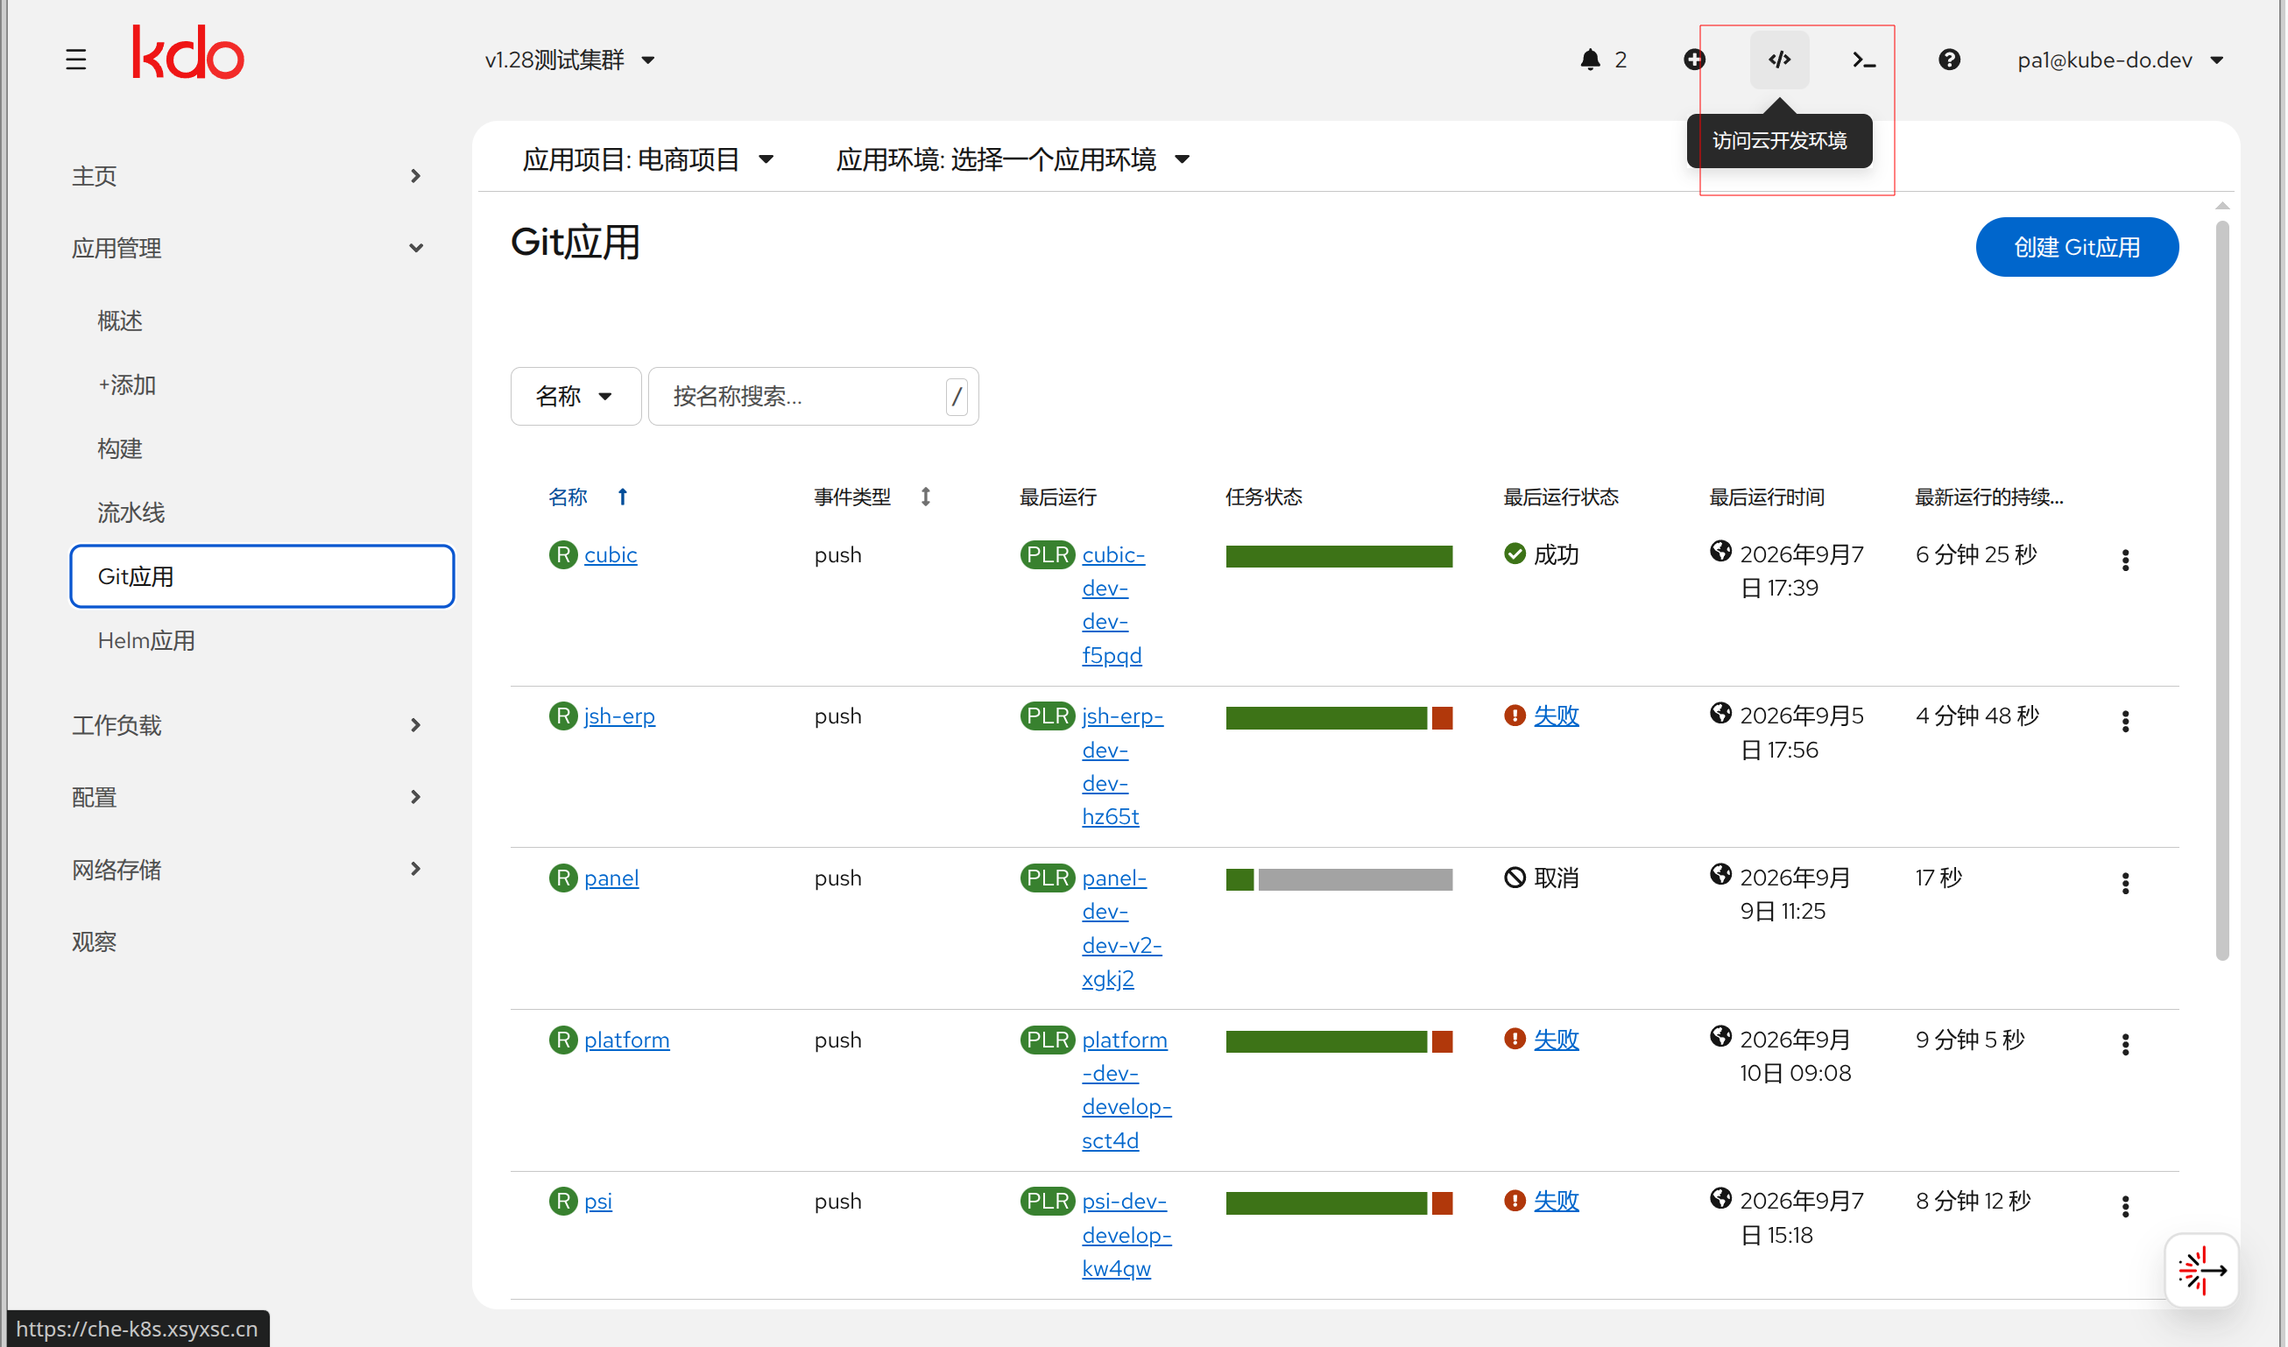
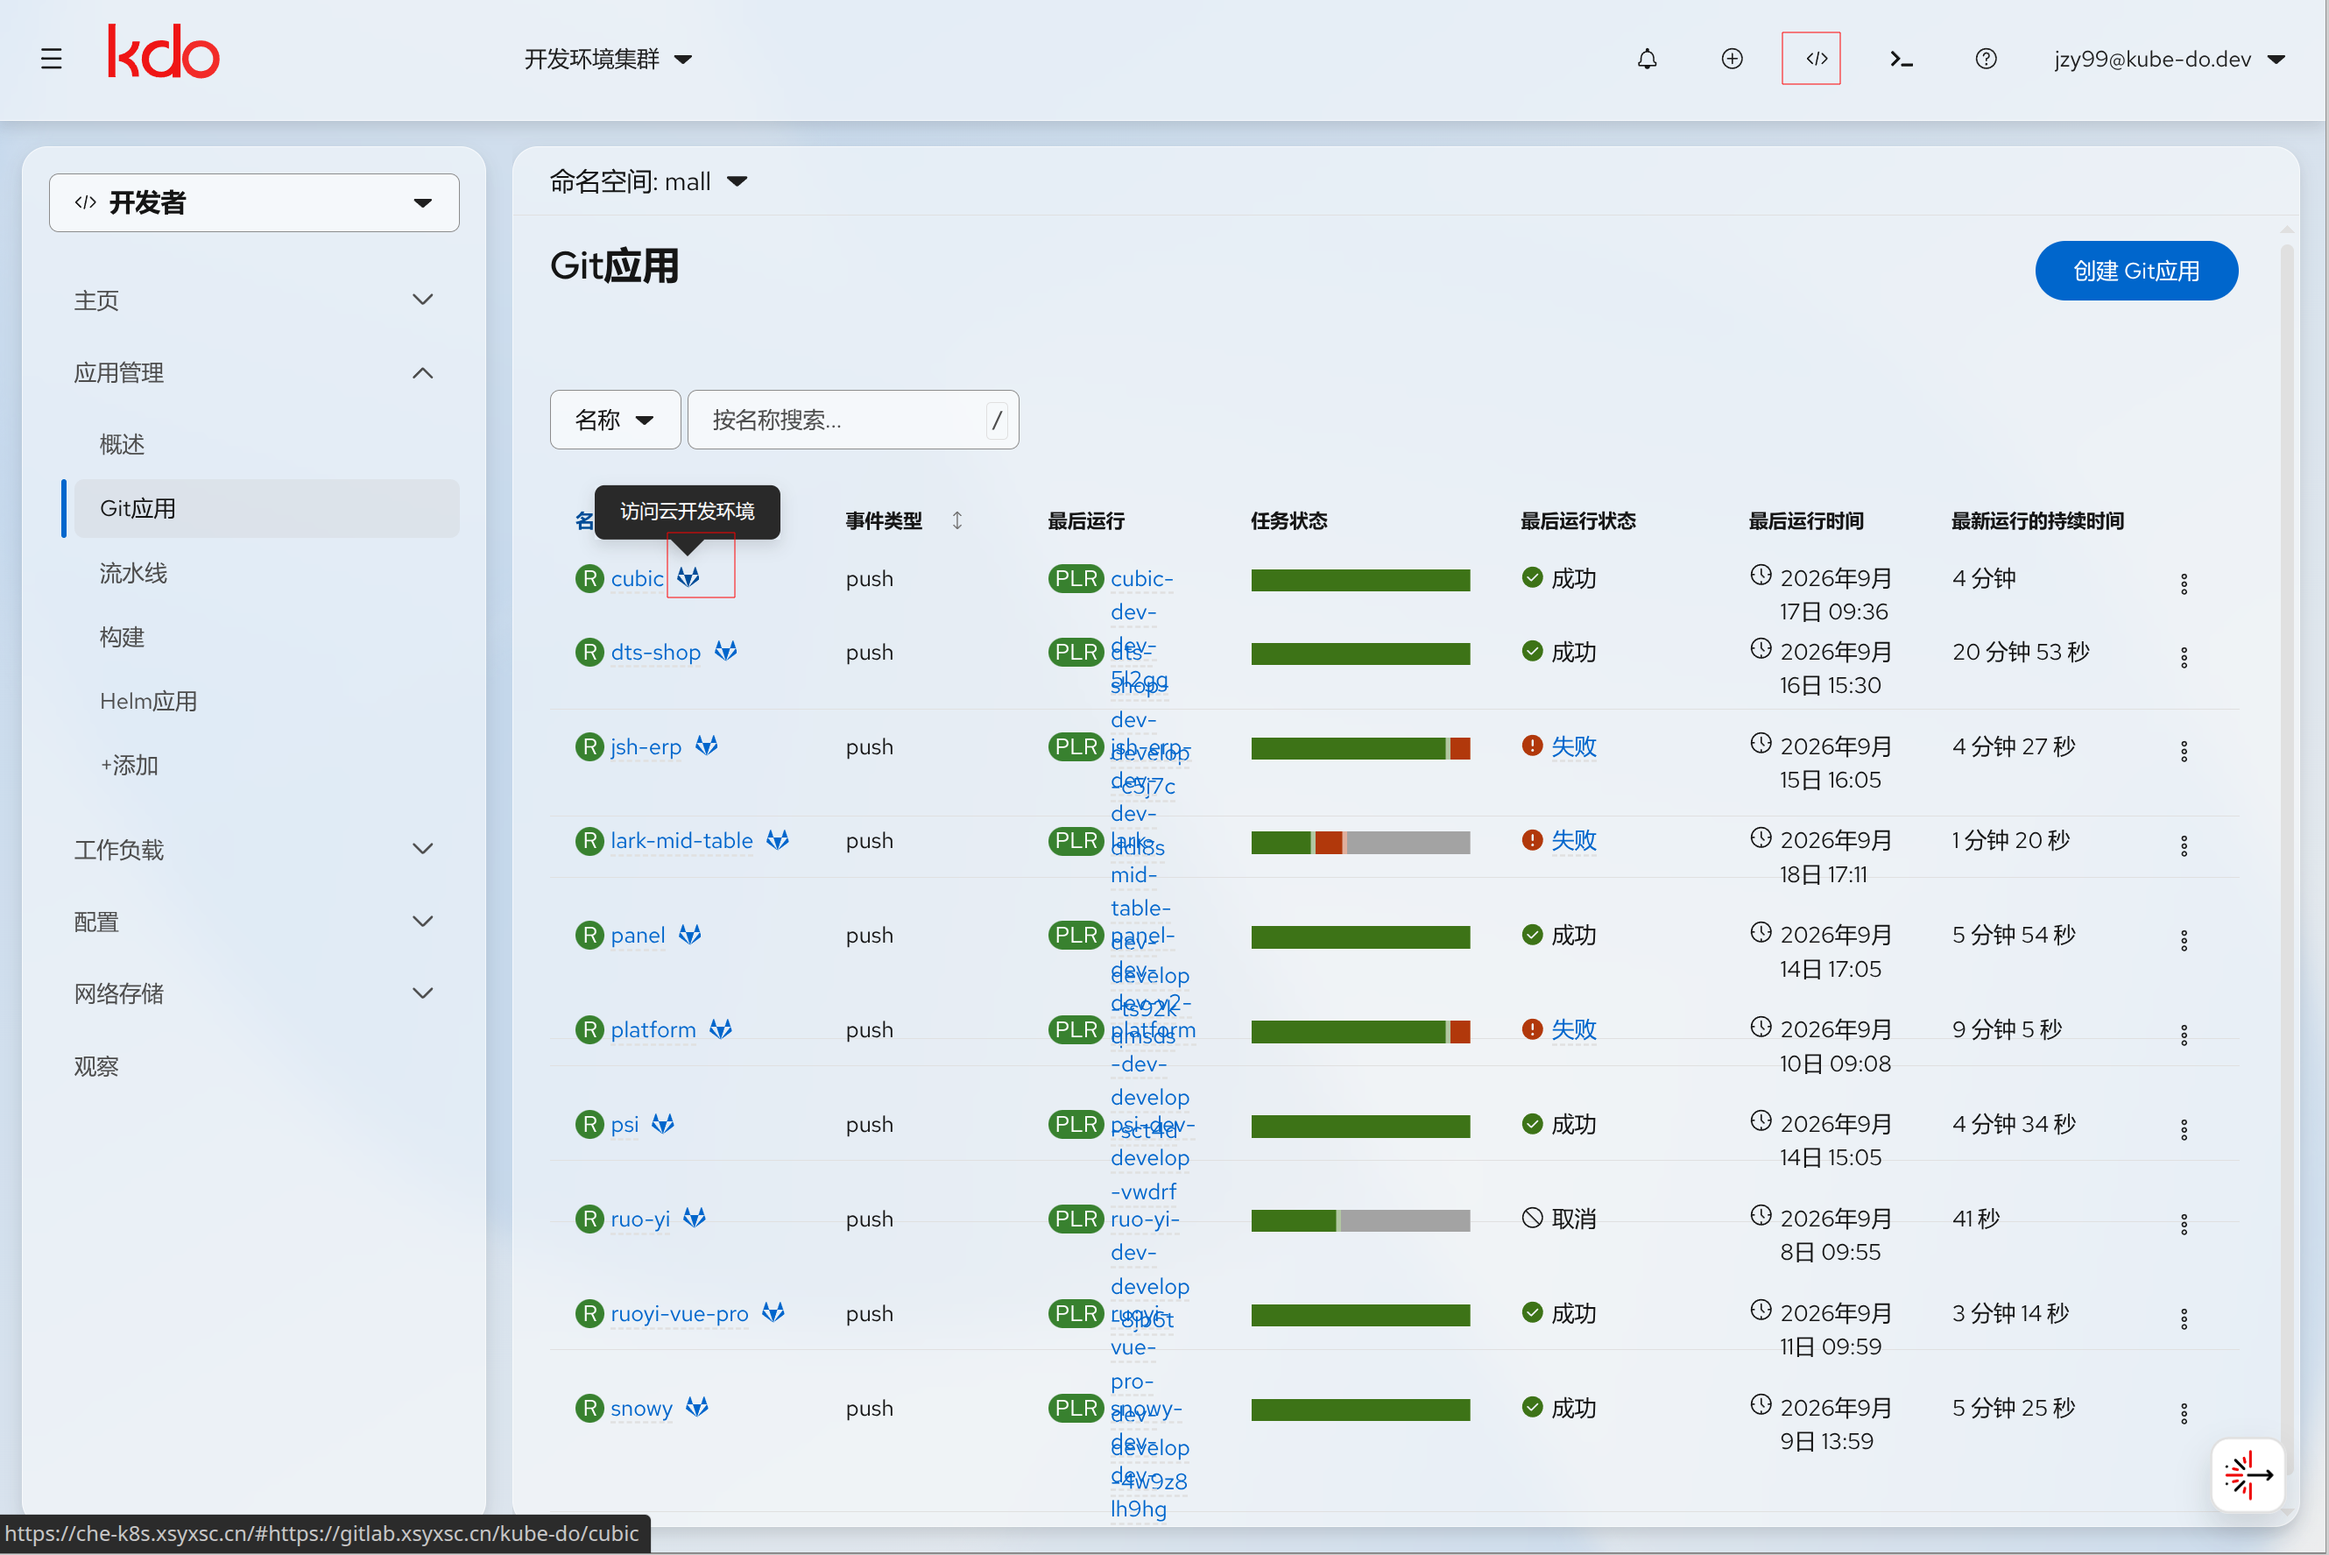
完善云开发环境快速开始与访问说明

diff --git a/docs/ide/index.md b/docs/ide/index.md
@@ -56,9 +56,10 @@ Che Dashboard 提供以下核心页面，本手册按此组织：
 
 ## 快速开始
 
-1. 登录 KDO 平台 Web 控制台
-2. 在控制台顶部导航中点击 **云开发环境** 入口，浏览器将自动打开 Che Dashboard
-3. 首次启动一个 Workspace 需要 2-3 分钟（拉取开发镜像、初始化持久化存储），后续启动因镜像缓存会显著加快
+1. 登录 KDO 平台 Web 控制台。
+2. 在控制台顶部导航中点击 **云开发环境** 入口，浏览器将自动打开 Che Dashboard，首次需要设置[个人访问令牌](/docs/ide/personal-access-tokens/)。
+3. 首次启动一个 Workspace 需要 2-3 分钟（拉取开发镜像、初始化持久化存储），后续启动因镜像缓存会显著加快。
+4. 也可从 Git 应用列表直接加载代码到云开发环境，无需手动克隆。
 
 ![access-che.png](imgs/access-che.png)
 
